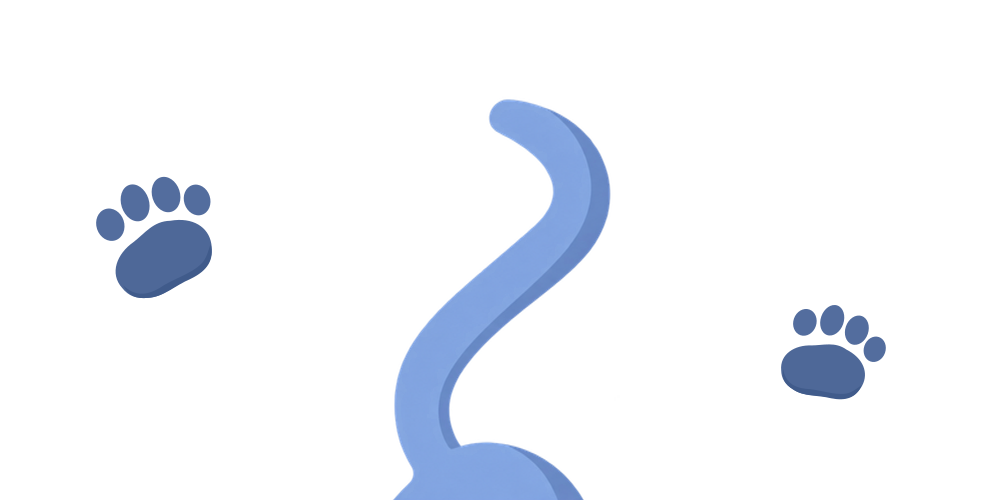
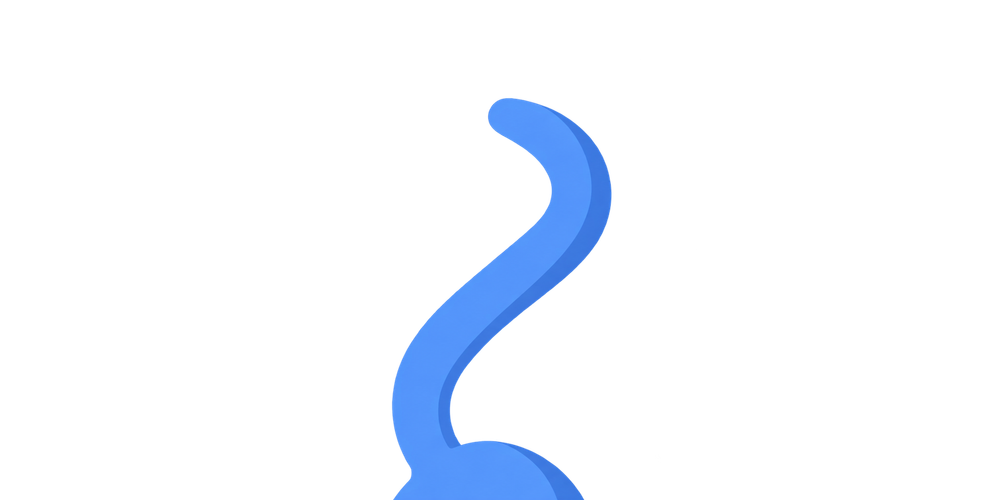
style(layout): update footer illustration and page descriptions

Changed region(s): [[0.372, 0.18, 0.62, 1.0], [0.093, 0.36, 0.217, 0.6], [0.775, 0.6, 0.899, 0.81]]

diff --git a/next/src/common/components/layout/AppPageTitle.tsx b/next/src/common/components/layout/AppPageTitle.tsx
@@ -6,7 +6,7 @@ interface Props {
 const AppPageTitle = ({ title, description }: Props) => (
   <header className="flex min-w-0 flex-col gap-2">
     <h1 className="m-0  text-3xl font-bold leading-tight tracking-tight text-theme-text-primary desktop:text-3xl">{title}</h1>
-    {description && <p className="m-0 text-base leading-relaxed text-theme-text-secondary tablet:text-base">{description}</p>}
+    {description && <p className="m-0 text-lg leading-relaxed text-theme-text-secondary">{description}</p>}
   </header>
 );
 

diff --git a/next/src/common/components/ui/BottomSafe.tsx b/next/src/common/components/ui/BottomSafe.tsx
@@ -1,7 +1,7 @@
 import { cn } from '@/common/utils/cn';
 import { motion } from 'framer-motion';
 import Image from 'next/image';
-import hidingCatTail from '/public/img/hiding-cat/hiding-cat-tail-no-pawprints.png';
+import hidingCatTail from '/public/img/hiding-cat/hiding-cat-tail.png';
 
 const CONTAINER_CLASS =
   'w-[180px] self-center mt-16 desktop:mt-24 mb-24 flex flex-col';
